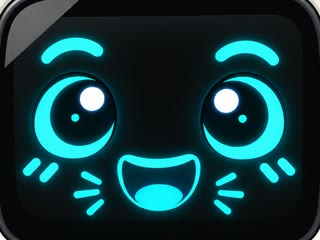
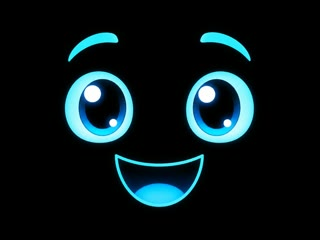
install professional audio-reactive Taco faces

diff --git a/src/main.cpp b/src/main.cpp
@@ -25,6 +25,12 @@ extern const uint8_t faceSadStart[] asm("_binary_assets_faces_sad_jpg_start");
 extern const uint8_t faceSadEnd[] asm("_binary_assets_faces_sad_jpg_end");
 extern const uint8_t faceWinkStart[] asm("_binary_assets_faces_wink_jpg_start");
 extern const uint8_t faceWinkEnd[] asm("_binary_assets_faces_wink_jpg_end");
+extern const uint8_t faceThinkingStart[] asm("_binary_assets_faces_thinking_jpg_start");
+extern const uint8_t faceThinkingEnd[] asm("_binary_assets_faces_thinking_jpg_end");
+extern const uint8_t faceTalkSmallStart[] asm("_binary_assets_faces_talk_small_jpg_start");
+extern const uint8_t faceTalkSmallEnd[] asm("_binary_assets_faces_talk_small_jpg_end");
+extern const uint8_t faceTalkClosedStart[] asm("_binary_assets_faces_talk_closed_jpg_start");
+extern const uint8_t faceTalkClosedEnd[] asm("_binary_assets_faces_talk_closed_jpg_end");
 
 namespace {
 
@@ -81,6 +87,7 @@ bool hubConnected = false;
 bool hubUsingCloudflare = false;
 bool voiceRecording = false;
 bool voiceSpeaking = false;
+uint8_t talkMouthLevel = 0;
 bool conversationActive = false;
 bool resumeListeningPending = false;
 uint32_t resumeListeningAt = 0;
@@ -115,6 +122,11 @@ bool pocketed = false;
 uint32_t lastTouchAt = 0;
 bool listeningEnabled = true;
 bool cameraEnabled = true;
+const uint8_t* renderedFaceAsset = nullptr;
+bool renderedFaceNotificationVisible = false;
+bool renderedFaceHubConnected = false;
+bool renderedFaceConversationActive = false;
+String renderedFaceNotification;
 
 constexpr const char* VOICE_IDS[] = {"cedar", "ash", "echo", "verse", "edge"};
 constexpr const char* VOICE_LABELS[] = {"Cedar", "Ash", "Echo", "Verse", "Edge TTS"};
@@ -191,6 +203,7 @@ void nextMood() {
 
 void setScreen(Screen value, bool announce = true) {
   screen = value;
+  if (value == Screen::Face) renderedFaceAsset = nullptr;
   if (announce) publishScreen();
 }
 
@@ -289,7 +302,7 @@ void onHubEvent(WStype_t type, uint8_t* payload, size_t length) {
       hubConnected = true;
       hubSocket.sendTXT(String("{\"type\":\"hello\",\"device_id\":\"") +
                         AppConfig::DEVICE_ID +
-                        "\",\"hardware\":\"CoreS3\",\"firmware\":\"1.0.0-alpha.7\"}");
+                        "\",\"hardware\":\"CoreS3\",\"firmware\":\"1.0.0-alpha.8\"}");
       sendDeviceSettings();
       sendCapabilities();
       showNotification("Taco Hub connected");
@@ -322,16 +335,19 @@ void onHubEvent(WStype_t type, uint8_t* payload, size_t length) {
         } else if (message.indexOf("\"state\":\"speaking\"") >= 0) {
           pauseListening();
           voiceSpeaking = true;
+          talkMouthLevel = 0;
           setMood(Mood::Happy, false);
           showNotification("Taco is speaking");
         } else if (message.indexOf("\"state\":\"idle\"") >= 0) {
           pauseListening();
           resumeListeningPending = false;
           voiceSpeaking = false;
+          talkMouthLevel = 0;
           setMood(Mood::Happy, false);
           notificationUntil = 0;
         } else if (message.indexOf("\"state\":\"error\"") >= 0) {
           voiceSpeaking = false;
+          talkMouthLevel = 0;
           setMood(Mood::Grumpy, false);
           showNotification("Voice service error");
         } else if (message.indexOf("\"type\":\"capabilities_set\"") >= 0) {
@@ -360,6 +376,18 @@ void onHubEvent(WStype_t type, uint8_t* payload, size_t length) {
       const size_t samples = min(length / sizeof(int16_t), SPEAKER_CHUNK_SAMPLES);
       auto* output = speakerBuffers[speakerBufferIndex];
       memcpy(output, payload, samples * sizeof(int16_t));
+      uint32_t magnitudeTotal = 0;
+      size_t magnitudeSamples = 0;
+      for (size_t i = 0; i < samples; i += 8) {
+        magnitudeTotal += abs(static_cast<int32_t>(output[i]));
+        ++magnitudeSamples;
+      }
+      const uint32_t averageMagnitude =
+          magnitudeSamples ? magnitudeTotal / magnitudeSamples : 0;
+      talkMouthLevel = averageMagnitude < 180 ? 0
+                       : averageMagnitude < 700 ? 1
+                       : averageMagnitude < 1800 ? 2
+                                                 : 3;
       M5.Speaker.playRaw(output, samples, VOICE_SAMPLE_RATE, false, 1, 0);
       speakerBufferIndex = (speakerBufferIndex + 1) % 3;
       break;
@@ -692,8 +720,19 @@ void drawFace(uint32_t now) {
     start = faceStartledStart;
     end = faceStartledEnd;
   } else if (voiceSpeaking) {
-    start = faceExcitedStart;
-    end = faceExcitedEnd;
+    if (talkMouthLevel == 0) {
+      start = faceTalkClosedStart;
+      end = faceTalkClosedEnd;
+    } else if (talkMouthLevel == 1) {
+      start = faceTalkSmallStart;
+      end = faceTalkSmallEnd;
+    } else if (talkMouthLevel == 2) {
+      start = faceSurprisedStart;
+      end = faceSurprisedEnd;
+    } else {
+      start = faceExcitedStart;
+      end = faceExcitedEnd;
+    }
   } else if (blinking && !conversationActive && mood == Mood::Happy) {
     start = faceWinkStart;
     end = faceWinkEnd;
@@ -704,8 +743,13 @@ void drawFace(uint32_t now) {
         end = faceCuriousEnd;
         break;
       case Mood::Sleepy:
-        start = faceSleepyStart;
-        end = faceSleepyEnd;
+        if (conversationActive) {
+          start = faceThinkingStart;
+          end = faceThinkingEnd;
+        } else {
+          start = faceSleepyStart;
+          end = faceSleepyEnd;
+        }
         break;
       case Mood::Surprised:
         start = faceSurprisedStart;
@@ -720,6 +764,16 @@ void drawFace(uint32_t now) {
     }
   }
 
+  const bool notificationVisible =
+      !notification.isEmpty() && now < notificationUntil;
+  if (renderedFaceAsset == start &&
+      renderedFaceNotificationVisible == notificationVisible &&
+      (!notificationVisible || renderedFaceNotification == notification) &&
+      renderedFaceHubConnected == hubConnected &&
+      renderedFaceConversationActive == conversationActive) {
+    return;
+  }
+
   canvas.fillScreen(BG);
   const bool faceRendered =
       canvas.drawJpg(start, static_cast<size_t>(end - start), 0, 0, 320, 240);
@@ -732,13 +786,18 @@ void drawFace(uint32_t now) {
   }
   canvas.fillCircle(309, 11, 4,
                     hubConnected ? (conversationActive ? CYAN : CYAN_DIM) : PINK);
-  if (!notification.isEmpty() && now < notificationUntil) {
+  if (notificationVisible) {
     canvas.fillRoundRect(38, 218, 244, 18, 9, PANEL);
     canvas.setTextDatum(middle_center);
     canvas.setTextSize(1);
     canvas.setTextColor(WHITE, PANEL);
     canvas.drawString(notification.substring(0, 38), 160, 227);
   }
+  renderedFaceAsset = start;
+  renderedFaceNotificationVisible = notificationVisible;
+  renderedFaceNotification = notification;
+  renderedFaceHubConnected = hubConnected;
+  renderedFaceConversationActive = conversationActive;
 }
 
 void drawHeader(const char* title) {

diff --git a/docs/design/faces/README.md b/docs/design/faces/README.md
@@ -29,15 +29,17 @@ options in `publishDiscovery()`.
 
 # Shared Taco face set
 
-Firmware `1.0.0-alpha.7` embeds the eight faces from the approved ChatGPT shared collection as LCD-sized, baseline 4:2:0 JPEG assets. The firmware uses them as follows:
+Firmware `1.0.0-alpha.8` embeds the professional faces from the approved ChatGPT shared collection as LCD-sized, baseline 4:2:0 JPEG assets. The firmware uses them as follows:
 
 - happy: idle
 - startled: conversation wake-up
 - curious: listening
-- sleepy: thinking
-- excited: speaking
+- sleepy: resting or sleeping
+- thinking: processing a question
+- talk closed, small, round and wide: audio-reactive speaking animation
+- excited: loud/emphatic speech
 - surprised: remote surprised mood
 - sad: error mood
 - wink: natural idle blink
 
-The runtime assets are in `assets/faces/`. The two generated exploration strips in `shared/` are design references only and are not loaded by the firmware.
+The runtime assets are in `assets/faces/`. Talking mouth selection follows the average amplitude of each incoming PCM audio chunk. The two generated exploration strips in `shared/` are design references only and are not loaded by the firmware.
